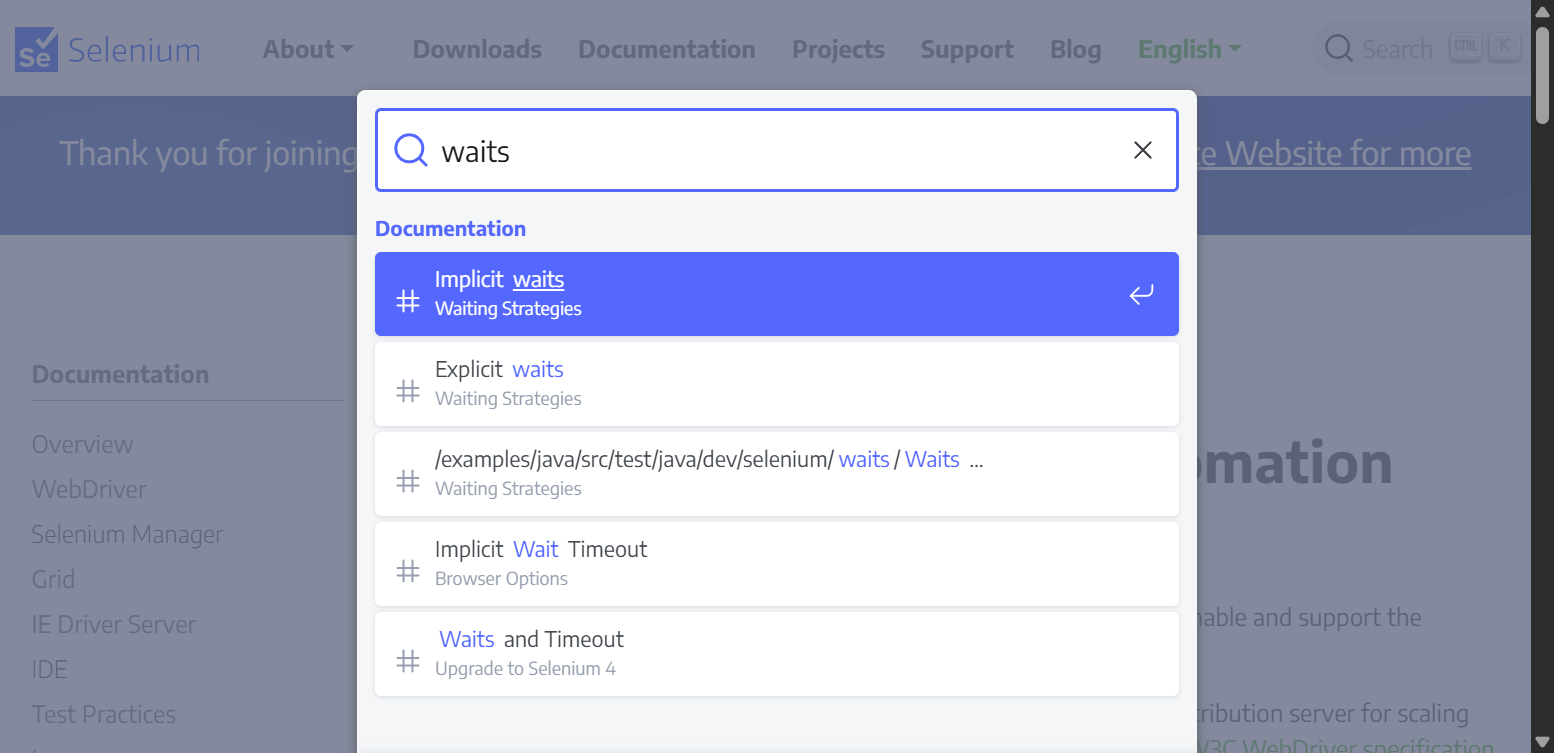
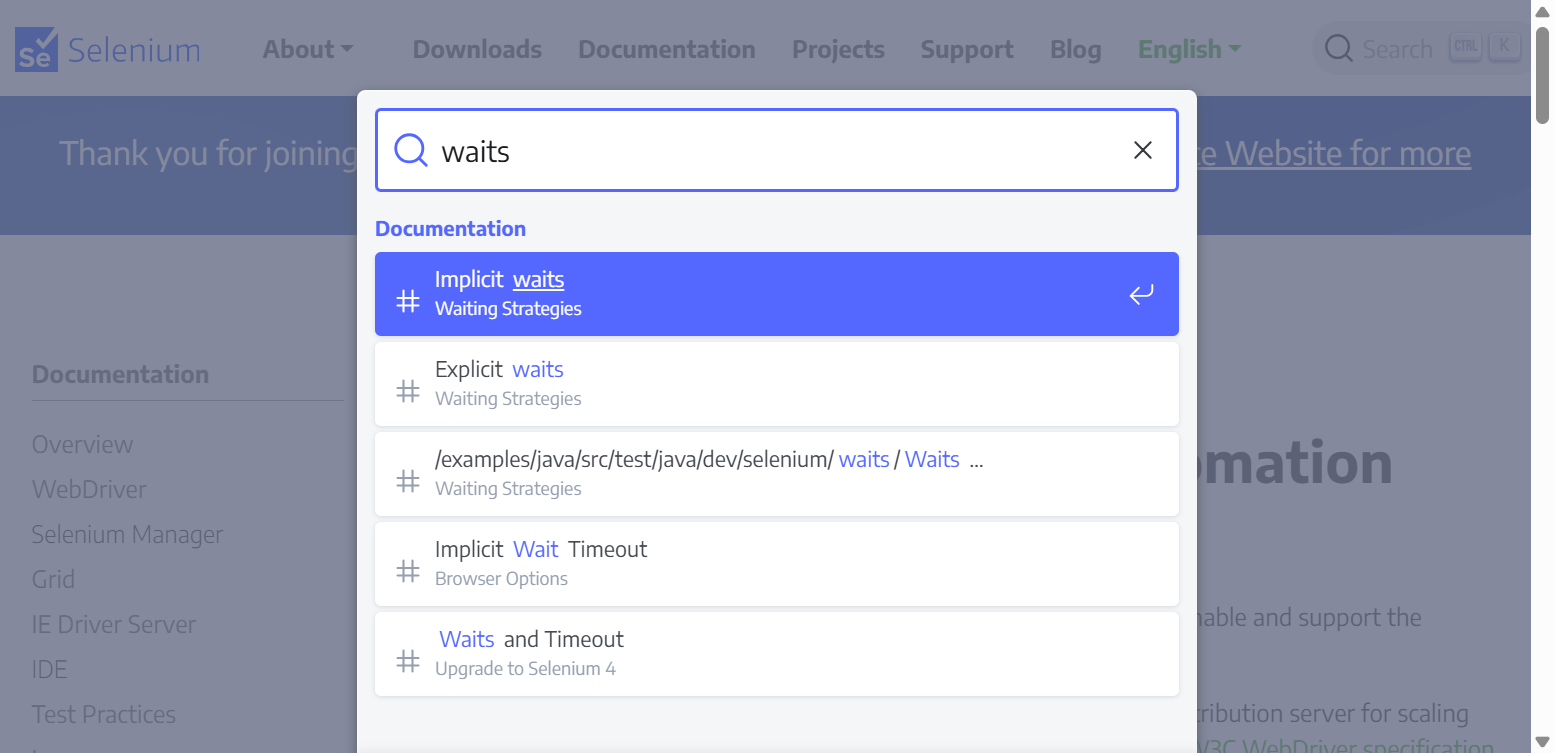
Day3 - finElements

Changed region(s): [[0.9575, 0.0, 1.0, 1.0]]

diff --git a/Day3/index.js b/Day3/index.js
@@ -1,0 +1,27 @@
+const {Builder, By, until} = require('selenium-webdriver');
+async function runTest()
+{
+    let browser = await new Builder().forBrowser('chrome').build();
+    try{
+        await browser.get('https://www.selenium.dev/documentation/');
+        let title = await browser.getTitle();
+        console.log(title);
+
+        await browser.wait(until.elementsLocated(By.css('.nav-item')), 5000);
+        let elements = await browser.findElements(By.css('.nav-item'));
+        console.log(elements.length);
+
+        for(let e1 of elements)
+        {
+            let text = await e1.getText();
+            console.log(text); 
+        }
+
+
+    }
+    finally{
+        await browser.quit();    
+    }
+}
+
+runTest();
